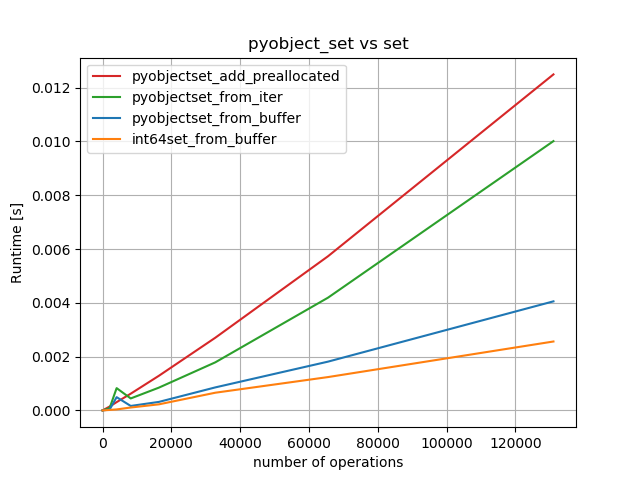
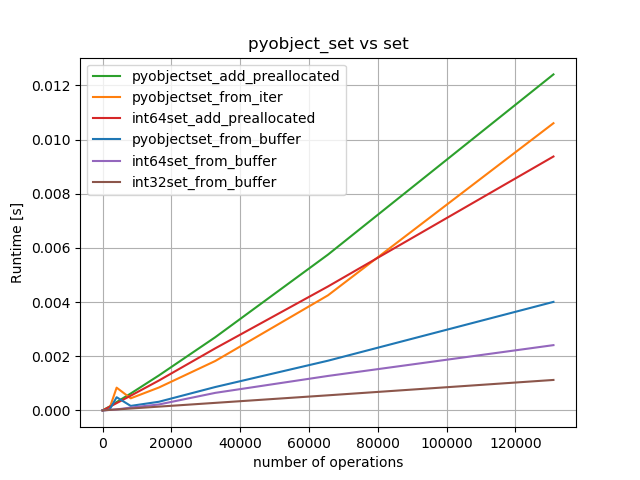
adding experiments for maps

diff --git a/tests/perf_tests/pyobjectmap_vs_dict.py b/tests/perf_tests/pyobjectmap_vs_dict.py
@@ -1,0 +1,98 @@
+import perfplot
+
+from cykhash import PyObjectMap
+
+def setmeup(n):
+    print(n)
+    s = dict()
+    p = PyObjectMap()
+
+    for i in range(n):
+        s[i] = i
+        p[i] = i
+    return (s,p)
+
+def contains_dict(maps):
+    s = maps[0]
+    n = len(s)//2
+    for i in range(n, 3*n):
+        i in s
+
+def contains_pyobjectmap(maps):
+    p = maps[1]
+    n = len(p)//2
+    for i in range(n, 3*n):
+        i in p
+
+def discard_insert_dict(maps):
+    s = maps[0]
+    n = len(s)
+    for i in range(n):
+        del s[i]
+    for i in range(n):
+        s[i] = i
+
+def discard_insert_pyobjectmap(maps):
+    p = maps[1]
+    n = len(p)
+    for i in range(n):
+        p.discard(i)
+    for i in range(n):
+        p[i] = i
+
+def insert_dict(maps):
+    n = len(maps[1])
+    s = dict()
+    for i in range(n):
+        s[i] = i
+
+def insert_pyobjectmap(maps):
+    p = PyObjectMap()
+    n = len(maps[0])
+    for i in range(n):
+        p[i] = i
+  
+def insert_pyobjectmap_preallocated(maps):
+    n = len(maps[1])
+    p = PyObjectMap(int(1.3*n))   
+    for i in range(n):
+        p[i] = i
+
+if True:  
+    perfplot.show(
+        setup = setmeup,
+        n_range=[2**k for k in range(18)],
+        kernels=[
+            #insert_set,
+            #insert_pyobjectset,
+            contains_dict,
+            contains_pyobjectmap,
+            discard_insert_dict,
+            discard_insert_pyobjectmap,
+            ],
+        logx=False,
+        logy=False,
+        xlabel='number of operations',
+        title = "pyobject_map vs dict",
+        equality_check = None,
+        )
+
+if True:
+    perfplot.show(
+        setup = setmeup,
+        n_range=[2**k for k in range(18)],
+        kernels=[
+            insert_dict,
+            insert_pyobjectmap,
+            insert_pyobjectmap_preallocated,
+            #contains_set,
+            #contains_pyobjectset,
+            #discard_insert_set,
+            #discard_insert_pyobjectset,
+            ],
+        logx=False,
+        logy=False,
+        xlabel='number of operations',
+        title = "pyobject_map vs dict",
+        equality_check = None,
+        )

diff --git a/tests/perf_tests/map_object_vs_int64_via_buffer.py b/tests/perf_tests/map_object_vs_int64_via_buffer.py
@@ -1,0 +1,48 @@
+import perfplot
+import numpy as np
+
+from cykhash import Int64to64Map, Int64to64MapIterator, Int64to64Map_from_int64_buffer, Int64to64Map_from_float64_buffer 
+from cykhash import Int32to32Map, Int32to32MapIterator, Int32to32Map_from_int32_buffer, Int32to32Map_from_float32_buffer 
+from cykhash import Float64to64Map, Float64to64MapIterator, Float64to64Map_from_int64_buffer, Float64to64Map_from_float64_buffer 
+from cykhash import Float32to32Map, Float32to32MapIterator, Float32to32Map_from_int32_buffer, Float32to32Map_from_float32_buffer 
+from cykhash import PyObjectMap, PyObjectMapIterator, PyObjectMap_from_object_buffer
+
+def pyobjectset_from_buffer(bufs):
+    PyObjectMap_from_object_buffer(bufs[0], bufs[0])
+
+def pyobjectset_add_preallocated(bufs):
+    n = len(bufs[0])
+    p = PyObjectMap(int(1.3*n))   
+    for i in range(n):
+        p[i] = i
+
+def int64_add_preallocated(bufs):
+    n = len(bufs[1])
+    p = Int64to64Map(int(1.3*n))   
+    for i in range(n):
+        p[i] = i
+
+def int64set_from_buffer(bufs):
+    Int64to64Map_from_int64_buffer(bufs[1], bufs[1])
+
+def int32set_from_buffer(bufs):
+    Int32to32Map_from_int32_buffer(bufs[2], bufs[2])
+
+
+if True:  
+    perfplot.show(
+        setup = lambda n : (np.arange(n, dtype = np.object), np.arange(n, dtype=np.int64), np.arange(n, dtype=np.int32)),
+        n_range=[2**k for k in range(18)],
+        kernels=[
+            pyobjectset_from_buffer,
+            pyobjectset_add_preallocated,
+            int64_add_preallocated,
+            int64set_from_buffer,
+            int32set_from_buffer,
+            ],
+        logx=False,
+        logy=False,
+        xlabel='number of operations',
+        title = "pyobject_map vs dict",
+        equality_check = None,
+        )

diff --git a/tests/perf_tests/object_vs_int64_via_buffer.py b/tests/perf_tests/object_vs_int64_via_buffer.py
@@ -1,7 +1,7 @@
 import perfplot
 import numpy as np
 
-from cykhash import isin_int64, Int64Set_from, Int64Set_from_buffer
+from cykhash import isin_int64, Int64Set_from, Int64Set_from_buffer, Int64Set
 from cykhash import isin_int32, Int32Set_from, Int32Set_from_buffer
 from cykhash import isin_float64, Float64Set_from, Float64Set_from_buffer
 from cykhash import isin_float32, Float32Set_from, Float32Set_from_buffer
@@ -20,19 +20,30 @@ def pyobjectset_add_preallocated(bufs):
     for i in range(n):
         p.add(i)
 
+def int64set_add_preallocated(bufs):
+    n = len(bufs[1])
+    p = Int64Set(int(1.3*n))   
+    for i in range(n):
+        p.add(i)
+
 def int64set_from_buffer(bufs):
     Int64Set_from_buffer(bufs[1])
+
+def int32set_from_buffer(bufs):
+    Int32Set_from_buffer(bufs[2])
 
 
 if True:  
     perfplot.show(
-        setup = lambda n : (np.arange(n, dtype = np.object), np.arange(n, dtype=np.int64)),
+        setup = lambda n : (np.arange(n, dtype = np.object), np.arange(n, dtype=np.int64), np.arange(n, dtype=np.int32)),
         n_range=[2**k for k in range(18)],
         kernels=[
             pyobjectset_from_buffer,
-            int64set_from_buffer,
             pyobjectset_from_iter,
-            pyobjectset_add_preallocated
+            pyobjectset_add_preallocated,
+            int64set_add_preallocated,
+            int64set_from_buffer,
+            int32set_from_buffer,
             ],
         logx=False,
         logy=False,

diff --git a/README.md b/README.md
@@ -28,6 +28,7 @@ Additional dependencies for testing:
   * `sh`
   * `virtualenv`
   * `uttemplate`>=0.2.0 (https://github.com/realead/uttemplate)
+  * `numpy`, `pandas`, `perfplot` for performance tests
 
 ## Instalation:
 
@@ -61,7 +62,7 @@ Peak memory usage for N int64-integers (inclusive python-interpreter):
 i.e. there is about 4 time less memory needed.
 
 
-# pd.unique()
+#### pd.unique()
 
 The implementation of pandas' `unique` uses a hash-table instead of hash-set, which results in a 25% larger memory footprint. Using cykhash's set similar to this example
 
@@ -147,6 +148,26 @@ Insertion of Python-integers is 50% slower than the insertion of 64bit integers 
 
 Using `PyObjectSet_from_buffer` is about 2.5 times faster than from iterator and 3 times faster than using `add`.
 
+For best performance use `Int64Set` or, even better, `Int32Set`, which is about factor 2 faster than the 64bit-version.
+
+ 
+#### PyObjectMap:
+
+There are similar observation as for `PyObjectMap`, see `map_object_vs_int64_via_buffer.py` and `pyobjectmap_vs_dict.py` in 'tests/perf_tests`-folder.
+
+The results are slightly worse (all above discard):
+
+![1](imgs/map_vs_pyobjectmap_fixed_hash.png)
+
+and
+
+![1](imgs/map_vs_pyobjectmap_only_insert_fixed_hash.png)
+
+Also here the performance of the 64bit/32bit variant much better:
+
+
+![1](imgs/buffer_objects_int64_map.png)
+
 
 ## Usage:
 
@@ -184,6 +205,43 @@ The following functions are available:
    * `XXXXSet_from(it)` - creates a `XXXXSet` from an iterable, with `XXXX` being either `Int64`, `Int32`, `Float64`, `Float32` or `PyObject`.
    * `XXXXSet_from_buffer(buf, size_hint=1.25)` creates a `XXXXSet` from an object which implements buffer interface, with `XXXX` being either `Int64`, `Int32`, `Float64`, `Float32` or `PyObject`. Starting size of hash-set is `int(size_hint*len(buf))`.
   * `isin_xxxx(query, db, result)` evaluates `isin` for `query` being a buffer of the right type, `db` - a corresponding `XXXXSet`, and result a buffer for with 8bit-itemsize, `xxxx` being either `int64`, `int32`, `float64`, `float32` or `pyobject`.
+
+
+### Maps
+
+Following classes are defined: 
+         
+  * `Int64to64Map` for mapping  64 bit integers to 64bit integer/floats
+  * `Int32to32Map` for mapping 32 bit integers to 32bit integer/floats
+  * `Float64to64Map`for mapping 64 bit floats to 64bit integer/floats
+  * `Float32to32Map`for mapping 32 bit floats to 32bit integer/floats
+  * `PyObjectMap`for arbitrary Python-objects as key/values
+
+with Python interface:
+
+  * `__len__`: number of elements in the map
+  * `__contains__`: whether an element is contained in the map
+  * `put_XXint/get_XXint`: setting/retrieving elements with XX=32 or 64 bits integer 
+  * `put_XXfloat/get_XXfloat`: setting/retrieving elements with XX=32 or 64 bits float 
+  * `__setitem__/__getitem___`: parameter `for_intXX` in the constructor deceides whether elements are intepreted as int or float (XX =  32 or 64 bits)
+  * `discard`: remove an element or do nothing if element is not in the map
+  * `__iter__`: returns an iterator through all elements in map
+
+with Cython interface:
+
+  * `contains`: checks whether an element is contained in the map
+  * `put_XXint/get_XXint,put_XXfloat/get_XXfloat` : setting/getting elements in the map
+  * `discard` : remove an element or do nothing if element is not in the map
+  * `get_iter`: returns an iterator with the following Cython interface:
+       * `has_next`:returns true if there are more elements in the iterator
+       * `next` :returns next element and moves the iterator
+
+### Utility functions:
+
+The following functions are available:
+
+   * `TypeXXtoXXMap_from_typeXX_buffer(keys, vals, size_hint)` - creates a `TypeXXtoXXMyp` from buffers with  `Type` either `Float` or `Int`, `XX` either 32 or 64 and `type` either `float` or `int`. Starting size of hash-map is `int(size_hint*min(len(keys), len(vals)))`.
+   * `PyObjectMap_from_object_buffer` for keys, values as objects.
 
 ### Examples: 
 
